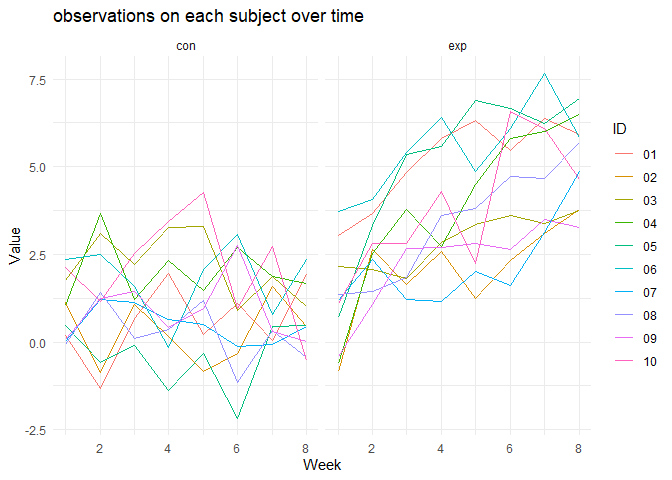
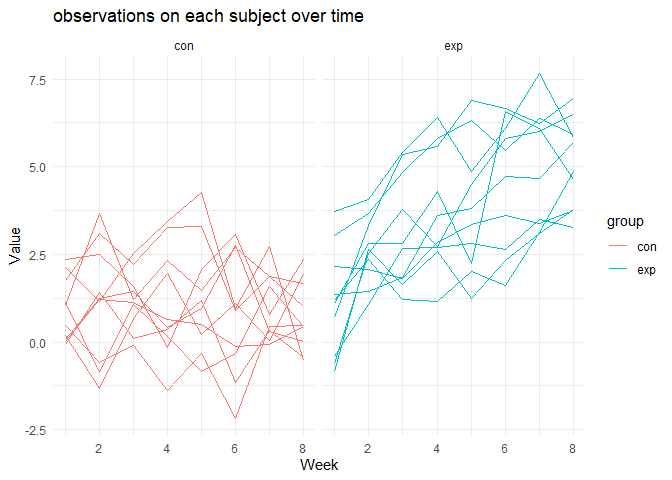
final version!

diff --git a/p8105_hw5_cp3384.md b/p8105_hw5_cp3384.md
@@ -81,7 +81,7 @@ all_city_state<-city_state_summary%>%
     ## Warning: There was 1 warning in `mutate()`.
     ## ℹ In argument: `test = map2(unhomicides, n, ~prop.test(.x, .y))`.
     ## Caused by warning in `prop.test()`:
-    ## ! Chi-squared近似算法有可能不准
+    ## ! Chi-squared approximation may be incorrect
 
 ``` r
 all_city_state
@@ -167,7 +167,7 @@ and comment on differences between groups.**
 ``` r
 #showing observations on each subject over time
 longitudinal%>%
-  ggplot(aes(x = week, y = value,color = ID))+
+  ggplot(aes(x = week, y = value,group = ID, color = group))+
   geom_line()+
 #plot according to groups
   facet_grid(~group)+
